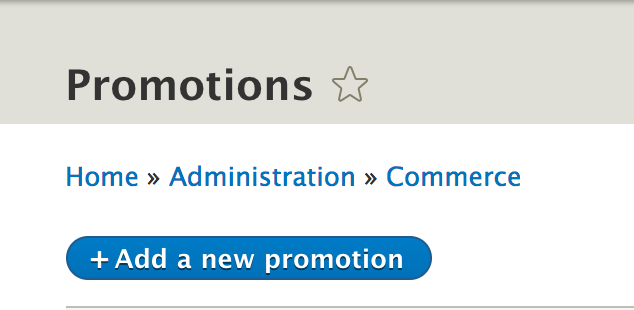
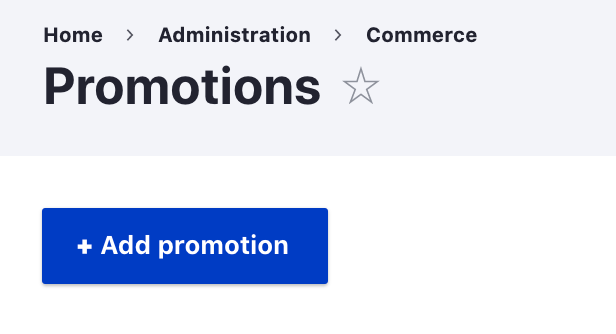
User guide promotions documentation

diff --git a/user/pages/03.commerce2/03.user-guide/06.promotions/02.edit-promotion/docs.md b/user/pages/03.commerce2/03.user-guide/06.promotions/02.edit-promotion/docs.md
@@ -4,4 +4,136 @@ taxonomy:
     category: docs
 ---
 
-! We need help filling out this section! Feel free to follow the *edit this page* link and contribute.
+After creating a promotion, you can make updates by editing its various configuration options. The [Create a promotion](../create-promotion) documentation page provides an introduction to those options; this page provides a more comprehensive summary.
+
+Updating Names and Description
+-----------------
+The "Name", "Display name", and "Description" fields can be updated after a promotion is created, even if the promotion is already active. However, if the promotion has already been applied to existing orders, the name that customers see on their order/cart may or may not be updated, depending on the state of the order.
+
+- If the order has already been placed, the promotion name will not be updated.
+- If the order is still an in-progress shopping cart, the promotion name will be updated.
+
+
+Offer types
+-----------------
+Commerce Core includes five different offer types. The Commerce Shipping module, if installed, provides two additional offer types. When the Offer type is changed, the "Offer" form below the list of options will be updated with configuration options specific to the offer type.
+
+
+#### Fixed amount or Percentage off the order subtotal
+The two simplest offer types are, "Fixed amount off the order subtotal" and "Percentage off the subtotal". For the "Fixed amount" offer, enter the exact amount that should be deducted from the order subtotal. If your site has multiple currencies installed, you will need to specify the currency in addition to the amount.
+
+![Fixed amount off subtotal offer UI](../images/editing_promotion_fixed_amount_currency.png)
+
+For the "Percentage" offer, enter the percentage that should be applied to the order subtotal to calculate the discount amount. Decimal amounts can be entered. For example, enter, "1.5" for a 1.5% discount amount. If the subtotal amount is $1,000.00, the discount will be $15.00.
+
+![Percentage off subtotal offer UI](../images/editing_promotion_percentage.png)
+
+
+#### Fixed amount or Percentage off each matching product
+
+These offer types are similar to the Fixed amount and Percentage off the order subtotal offer types but offer additional options for how the discounts are displayed and applied to individual order items.
+
+![Matching product offer types UI](../images/editing_promtion_matching_product_offers.png)
+
+##### Display options
+- Use the Display options to control whether displayed unit prices for individual order items remain unchanged or adjusted by discount amounts.
+
+##### Application options
+Use the Application options to limit the application of the discount to only order items that match your criteria.
+
+- **Specific products**: Enter the titles for one or more products, separated by commas.
+- **Specific product variation**: Enter either titles or SKUs for one or more product variations, separated by commas.
+- **Product categories**: For any product types with custom fields that reference taxonomy terms, enter one or more term names, separated by commas. The discount will be applied to products that reference those terms. For example, suppose you have a "Product catalog" taxonomy with terms like "Clothing", "Electronics", "Toys", etc. You could use this offer type to create discounts that only apply to products classified as "Toys".
+- **Product types and product variation types**: if only a few options exist, you will see checkbox options for the product/variation types; otherwise, enter the names of the product/variation types, separated by commas.
+
+#### Buy X Get Y
+
+The Buy X Get Y offer type provides discounts for 1 or more items in the customer's cart based on the existence of other items in the cart. The first part of the configuration form is the, "Customer buys" section. Use this section to specify *what must exist in the cart* in order for the discount to apply:
+
+![Bux X Get Y offer type customer buys UI](../images/editing_promotion_buy_x_get_y_buys.png)
+
+The "Quantity" value can be any non-negative integer or decimal amount. The "Matching" criteria are the same as the [Application options](#application-options) described in the previous section.
+
+The next section of the form, labeled, "Customer gets", specifies additional items that:
+1. Must be in the cart for the discount to apply, and
+2. If present, will be discounted.
+
+Again, there is a "Quantity" value and "Matching" criteria for these items.
+
+Finally, the third section of the form, labeled, "At a discounted value", specifies whether the items that are discounted should be discounted based on a Percentage or Fixed amount. See the explanation above for [Fixed amount or Percentage off the order subtotal](#fixed-amount-or-percentage-off-the-order-subtotal) offer types for more information.
+
+![Bux X Get Y offer type customer gets UI](../images/editing_promotion_buy_x_get_y_gets.png)
+
+#### Example: Buy 3 get 1 free for Product X
+Suppose you create a promotion with a "Buy X Get Y" offer type configured as follows:
+- Customer buys quantity: **3**
+- Matching specific products: **Product X**
+- Customer gets quantity: **1**
+- Matching specific products: **Product X**
+- At a discounted value percentage off: **100**
+
+Then the following logic will be applied:
+- If the customer has less than 4 units of Product X in his cart, no discount will be applied.
+- If the customer has 4-7 units of Product X in his cart, 1 of those items will be free (100% discount).
+- If the customer has 8-11 units of Product X in his cart, 2 of those items will be free, and so on.
+
+#### Fixed amount or Percentage off the shipment amount
+The Commerce Shipping module, if insalled, provides these two offer types which work just like the [Fixed amount or Percentage off the order subtotal](#fixed-amount-or-percentage-off-the-order-subtotal) offer types. However, instead of applying the discount to the subtotal, the discount is applied to the Shipping amount. By entering "100" as the percentage amount, a "Free shipping" discount can be created.
+
+Other custom or contributed modules can also define additional offer types or selection criteria.
+
+
+Conditions
+-----------------
+Add conditions to a promotion to create limitations for its discount offer. Conditions are grouped into three categories: Customer, Order and Products. Like Offer Types, selecting a Condition triggers the display of a configuration form specific to that condition. Promotions can have any number of conditions. 
+
+For example, here we've selected two Customer conditions. The Customer role has been set to "Authenticated user", so the customer must be logged in for the discount to apply. And the Billing address has been limited to the country of Sweden, so the discount will only apply to orders with Swedish billing addresses. "Customer email" is another Customer condition, but it has not been enabled for this example promotion.
+
+![Example customer conditions](../images/editing_promotion_customer_conditions.png)
+
+Order conditions allow you to limit the promotion by the total price of the order, currency, or selected payment gateway.
+
+Product conditions allow you to limit the promotion based on the items that have been added to the cart
+or by the quantity of products the customer purchases. You can use the autocomplete to enter a comma separated list of products to apply the promotion to.
+
+
+#### All conditions vs. Only one condition must pass
+If multiple conditions have been added to the order, use this option to control whether all or only one of the conditions must be TRUE for the promotion to apply.
+
+If more complex logic is required for your promotions, custom or contributed modules can be installed to provide specialized conditions or order processors.
+
+
+Start and End dates
+-----------------
+The [Create a promotion](../create-promotion) documentation page provides an example of setting the Start and End date for a promotion. The Start date is required but can be set to the current date and time if you want the promotion to be immediately available.
+
+Date and time constraints are applied based on the timezone of the Store, not the customer's timezone.
+
+
+Usage limitations
+-----------------
+A promotion can also be limited based on total usage or on a per user basis. For example, here we've limited a promotion so that it's available to only the "first 1000 customers", and each customer can only use the discount once. 
+
+![Example customer conditions](../images/editing_promotion_usage_limits.png)
+
+Customer usage is tracked based on email address. If the customer is shopping as a guest and his email address is not yet known, customer usage will not be factored into the logic for determining whether the promotion applies. Once a guest customer enters an email address or logs in, a previously applied discount will be removed if its application would violate the customer usage limit.
+
+
+Compatibility options
+-----------------
+Compatibility options allow you to specify whether the promotion can be combined with other promotions.
+
+![Promotions compatibilty options](../images/managing_promotions_compatibility.png)
+
+- Once a promotion that is *not* compatible with other promotions is added to an order, no other promotions will be added.
+- If a promotion that is compatible with any promotion is added to an order, then any subsequent promotions with limited compatibility will *not* be added to the order.
+
+See the [Promotions table](../managing-promotions#ordering-promotions) documentation for information on how to manage the order in which promotions are added to an order.
+
+Coupons
+-----------------
+If your promotion requires coupons, you can create and manage its coupons by clicking the "Coupons" link at the top of the promotion's Edit page:
+
+![Navigate to promotion's coupons page](../images/editing_promotion_coupons.png)
+
+See [Using coupons](../coupons-with-promotion) for coupon-specific documentation.

diff --git a/user/pages/03.commerce2/03.user-guide/06.promotions/01.create-promotion/docs.md b/user/pages/03.commerce2/03.user-guide/06.promotions/01.create-promotion/docs.md
@@ -4,59 +4,68 @@ taxonomy:
     category: docs
 ---
 
-! We need help filling out this section! Feel free to follow the *edit this page* link and contribute.
 
-
-Imagine that your store is currently running a special New Year campaign where you'd like to give customers a 10% discount on orders worth $50 or more. With the default offers and conditions provided by the promotion system, it is quite simple.
+Imagine that your store is planning to run a special New Year campaign where you'd like to give customers a 10% discount on orders worth $50 or more. You'd like to set up the promotion ahead of time and limit it to a specific date range. With the default offers and conditions provided by the promotion system, it is quite simple.
 
 ## Adding a New Promotion
 
-- You can create a new promotion by going to ``/admin/commerce/promotions`` and clicking the "Add a new promotion" button.
+- You can create a new promotion by going to ``/admin/commerce/promotions`` and clicking the "Add promotion" button.
 
-![](../images/creating_a_promotion.png)
+![Admin ui for creating a promotion](../images/creating_a_promotion.png)
 
-- Give your promotion a descriptive name, for example, "10% off on $50 or more orders"
+- Give your promotion a descriptive name, for example, "10% off on $50 or more orders".
+
+- If you would like to use a different name for what customers will see on their order/cart, enter a "Display name", for example, "10% Off Storewide Sale". If the display name is set, only administrative users will see the "Name" of the promotion.
+
+- Optionally, you can also enter a description for the promotion. This description can only be viewed by administrative users, not customers.
+
+![Admin ui for defining a new promotion](../images/creating_a_promotion_naming.png)
+
   
 Setting the Offer
 -----------------
 
-- Let's now decide on the type of offer you'd like to give users. As our goal is to give customers a 10% discount on orders worth $50 or more, let's select the "Percentage off the order total" radio button under ``Offer``.
-- Now enter the percentage you'd like to give the user, for example, "10%".
+- Let's now decide on the type of offer you'd like to give users. As our goal is to give customers a 10% discount on orders worth $50 or more, let's select the "Percentage off the order subtotal" option under ``Offer type``. Notice that whenever you change the offer type, the form changes below the list of options to provide additional inputs.
+- Now enter the percentage you'd like to give the customer as the "Percentage off". For this example, we enter "10".
 
-![](../images/promotion_offer.png)
+![Admin ui for setting promotion offer](../images/promotion_offer.png)
+
+>See the [Edit a promotion](../edit-promotion) documentation page for a description of all Offer types provided by Drupal Commerce core. Note that additional offer types can be created in custom code by a developer. See the [Create an offer type](../../../developer-guide/promotions/create-an-offer-type) page in the Developer guide for documentation and example code.
 
   
 Adding Conditions
 -----------------
 
-The conditions section allows you to further manage the promotions so that you can tell the system to apply the promotion only if the order meets certain criteria. Currently, by default, Commerce gives us the ability to limit applying a promotion based on the following parameters:
+The conditions section allows you to further manage the promotions so that you can tell the system to apply the promotion only if the order meets certain criteria. There are three categories of Conditions: Customer, Order, and Products. Click on each to see condition options in that category. You can specify multiple conditions. For this example, we want to add a condition so that our promotion will only apply to orders worth $50 or more. This is the "Current order total" condition, an "Order" condtion. Similar to the "Offer type" options, whenever we select a Condition type, a new form will appear under that condition. We'll select the "Greater than or equal to" Operator and enter "50" as the Amount:
 
-- Customer - Limit by the customer's billing address or limit by the customer's role
-- Order - Limit by total price
-- Product - Limit by the quantity of products the customer purchases, or limit by the products that are in the cart
-Note: You can use the autocomplete to enter a comma separated list of products to apply the promotion to.
+![Admin UI for setting promotion conditions](../images/promotion_conditions.png)
 
-Going back to the campaign for your store, let's go ahead and add an "Order" condition by checking the ``Limit by total price`` checkbox and selecting the ``Greater than`` operator and set the "Amount" to ``50.00``.
+At the end of the Conditions section of the page, you can specify whether "all conditions must pass" or "only one condition must pass". Since our example promotion has only one Condition, it doesn't matter which option we select. We'll leave it set to the default, "all conditions must pass":
 
-![](../images/promotion_conditions.png)
+![Admin UI for setting promotion conditions](../images/promotion_all_or_one_condition.png)
 
 
-More Configuration
+>See the [Edit a promotion](../edit-promotion) documentation page for a description of all Condition types provided by Drupal Commerce core. Note that additional condition types can be created in custom code by a developer. See the [Create a condition](../../../developer-guide/promotions/create-a-condition) page in the Developer guide for documentation and example code.
+
+
+
+Additional Configuration
 ------------------
 
-You can set further limitations on the promotion, including:
+On the right-hand side of the page, you'll see options for setting additional limitations on the promotion. For this example, we stated that we wanted to limit our promotion to a specific date range. So we'll enter a Start date of "12/31/2021" at "10:00 PM" and an End date of "1/7/2020" at "11:59 PM", right before midnight. To do so, we need to enable the "Provide an end date" option by clicking the checkbox.
 
-- Dates
-  - Set a start and end date for the promotion
-- Usage Limits
-  - Limit the number of times the promotion can be used
-- Compatibility
-  - Denote if the promotion can be combined with other promotions
+![Admin UI for setting promotion conditions](../images/promotion_start_end_date.png)
 
-![](../images/promotion_more_configuration.png)
+Note that the date and time constraints are applied based on the Timezone of the *Store*, not that of the customer.
 
 
+Testing the Promotion
+-----------------
 Now, that you've entered the necessary conditions let's "Save" the promotion. You can test this out by adding a product or a number of products to the cart. Once the order total reaches $50 or more, note, a discount is automatically applied to the order total.
 
 ![](../images/promotion_discount_applied.png)
+
+**Testing Tip**: if you want to test a promotion before it goes live, use the "Customer role" Condition to temporarily require an administrative role. Then you can safely enable and test a promotion without exposing it to customers. In this example, you would also need to adjust the starting date to allow orders during the testing period. Just remember to restore the correct starting date and remove the Customer role condition after testing and before it needs to go live!
+
+
 

diff --git a/user/pages/03.commerce2/03.user-guide/06.promotions/04.coupons-with-promotion/docs.md b/user/pages/03.commerce2/03.user-guide/06.promotions/04.coupons-with-promotion/docs.md
@@ -4,22 +4,66 @@ taxonomy:
     category: docs
 ---
 
-! We need help filling out this section! Feel free to follow the *edit this page* link and contribute.
+Let's now imagine that you're running a new email campaign that sends customers a coupon that they can use to get 10% off each order over $50. 
 
+Setting up a coupon-based promotion is the same as creating a new promotion but with a extra step. You set up the promotion the [same way as before](../01.create-promotion), but this time let's add a Coupon to the promotion.
 
-Let's now imagine that you're running a new email campaign that sends customers a coupon that they can use to get 15% off each order over $100. 
-
-Setting up a coupon based promotion is the same as creating a new promotion but with a extra step. You setup the promotion the [same way as before](../01.create-promotion), but this time lets add a Coupon to the promotion.
-
-Click on the Coupon tab at the top of the page. Click on 'Add Coupon' and add the following:
-- Enter a specific coupon code
-- Mark it as active
-- Set the number of times this coupon can be used
+Click on the Coupon tab at the top of the page. Click on "Add Coupon", and add the following:
+- Enter a specific coupon code.
+- Mark it as enabled (active).
+- Set the number of times this coupon can be used as the "Total available" amount.
+- To limit the number of times this coupon can be used by a single customer, set the "Total per customer" amount.
   
-![](../images/creating_a_coupon.png)
+![Coupon creation UI](../images/creating_a_coupon.png)
 
 Finally, "Save" the coupon. 
 
-Let's test this out by adding a few products that amount to an order total of over $100. Notice that a discount is not automatically applied as you have added a coupon to the promotion. Instead, in the "Checkout" page, you can see a 'Coupon code' textfield. Enter the coupon code in the promotion and hit "Apply coupon". You can now see that the 15% discount has been applied to the entire order.
+Let's test this out by adding a products to a cart so that the order totals over $50. Notice that the discount is not automatically applied. It will only be applied if the coupon code is entered. During Checkout, you can see a "Coupon code" textfield in the "Order summary". Enter the coupon code for the promotion, and click the "Apply coupon" button.
 
-In order to allow multiple coupons, go to the Checkout Flow page and edit the Checkout Flow that will be used. Edit the 'Coupon redemption' pane and click on the 'Allow multiple coupons to be redeemed'. Make sure to save.
+![Coupon application UI](../images/applying_a_coupon.png)
+
+You can now see that the 10% discount has been applied to the entire order.
+
+![Applied coupon](../images/applied_coupon.png)
+
+
+### Bulk coupon generation 
+
+Now let's suppose that you want to create a large number of unique coupons for a promotion. You can use the Bulk coupon generator by clicking "Generate coupons" instead of "Add coupon" on a promotion's Coupons page:
+
+![Generating coupons](../images/generating_coupons.png)
+
+For each batch of coupons you'd like to generate, you need to specify three things:
+
+1. The number of coupons to be generated.
+2. The coupon code pattern.
+3. Usage limitations, if any. By default, generated coupons are limited to a single use by a single customer. (See the description of [Usage limitations](../edit-promotion#usage-limitations) for promotions for more information.)
+
+#### Coupon code pattern
+
+Coupon code patterns are based on four attributes: format, prefix, suffix, and length.
+
+**Format** options are alphanumeric, alphabetic, and numeric and define the type of characters that will form the unique portion of the coupon code. For alphanumeric patterns, the characters 'I', 'O', 'i', 'l', '0', '1' are not used, to avoid recognition issues. Similarly, for alphabetic patterns, the characters 'I', 'i', 'l' are not used. All digits 0-9 are used for numeric patterns.
+
+**Length** is a positive integer that defines the number of characters that form the unique portion of the coupon code. Here are some examples of format/length values and the types of unique codes they produce:
+
+| Format | Length | Example code |
+| ------ | ------ | ------------ |
+| Alphanumeric | 8 | Xj7kcWn2 |
+| Alphabetic | 5 | HPAsu |
+| Numeric | 10 | 8974406511 |
+
+**Prefix** and **Suffix** are optional strings that can be added before and after the unique portion of the coupon code.
+
+In this example, we will generate coupon codes that look like "SAVE-10-HPAsu-2020", with "SAVE-10" as the prefix, "-2020" as the suffix, and a unique 5 character alphabetic code.
+
+![Coupon code pattern](../images/coupon_code_pattern.png)
+
+Let's generate 100 coupons for this pattern. Coupons are generated in batches, with progress displayed:
+
+![Generating coupons progress](../images/generating_coupons_progress.png)
+
+We now have 100 unique coupons for our promotion:
+
+![Generated coupons](../images/coupons_generated.png)
+

diff --git a/user/pages/03.commerce2/03.user-guide/06.promotions/05.managing-promotions/docs.md b/user/pages/03.commerce2/03.user-guide/06.promotions/05.managing-promotions/docs.md
@@ -4,7 +4,36 @@ taxonomy:
     category: docs
 ---
 
-! We need help filling out this section! Feel free to follow the *edit this page* link and contribute.
+To manage promotions, select "Promotions" from the "Commerce" administrative menu.
 
+The Promotions table lists all promotions, including both enabled and disabled promotions. In the first column, the name of the promotion is displayed along with a "Disabled" label for any disabled promotions. The "Usage" column displays both the current total usage and the usage limit (or "Unlimited" when there is no usage limit). The "Per-customer limit" displays the per-customer usage limit or "Unlimited". All promotions have a start date and time that is displayed in the "Start date" column. If a promotion has an end date and time, that value is displayed in the "End date" column. 
 
-Explain promotion table, managing promotions to find ones which hit usage limit, have not started, or ended.
+Standard operations links for editing/deleting/etc. promotions are provided in the last column, labeled, "Operations".
+
+If your site has more than 50 promotions, they will be grouped into pages with up to 50 promotions per page.
+
+![Promotions table](../images/managing_promotions_table.png)
+
+#### Ordering promotions
+If any of your promotions have limited compatibility, then the order in which promotions are listed in the Promotions table can affect whether any particular promotion is applied to an order. [Compatibility options](../edit-promotion#compatibility-options) can be set when editing a promotion:
+
+![Promotions compatibilty options](../images/managing_promotions_compatibility.png)
+
+Whenever a cart or draft order is updated, all "available" promotions are checked, in order, for applicability to the order. A promotion is considered **available** if all of the following are true:
+
+- The promotion is enabled.
+- The promotion does not have coupons. (Coupons are handled separately.)
+- The promotion applies to the order's *type*.
+- The promotion applies to the order's *store*.
+- The current date/time is between the order's start and end dates.
+- If the promotion has any general or customer-specific usage limits, they have not yet been met.
+
+The available promotions are sorted first by *weight*, from lowest to highest, and then by name, in the case of equally weighted promotions.
+
+To view the **weight** of promotions, click the "Show row weights" link at the top of the Promotions table, on the right:
+
+![Show promotion weights](../images/managing_promotions_show_weights.png)
+
+When weights are displayed, a new "Weight" column appears with editable weight values. When weights are hidden, the grab-and-drop tool in the leftmost column can be used to reorder promotions and adjust their weights. Once the weights have been updated, click the "Save" button at the bottom of the page to save the new weight values.
+
+![Manage promotion weights](../images/managing_promotions_update_weights.png)

diff --git a/user/pages/03.commerce2/03.user-guide/06.promotions/docs.md b/user/pages/03.commerce2/03.user-guide/06.promotions/docs.md
@@ -4,14 +4,12 @@ taxonomy:
     category: docs
 ---
 
-! We need help filling out this section! Feel free to follow the *edit this page* link and contribute.
+The competitive nature of the current retail market has driven store owners to search for methods and strategies to stand out from the competition and to drive sales. Creating promotions has been the strategy that has proven most effective for achieving those two goals.
 
-Drupal Commerce Core offers us powerful pricing options that store administrators can leverage to the extent of their store needs. Store admins can create very clever and complex pricing scenarios to entice customers and increase sales.
+Drupal Commerce Core provides powerful pricing options that store administrators can leverage to turn their innovative promotion ideas into reality. Promotions and coupons give us the ability to configure pricing rules to meet the store's needs. Before we delve into the process of creating promotions and coupons, let's first get some basic understanding of these terms.
 
-Promotions and coupons give us the ability to setup and configure pricing rules to meet the store's needs. It can be created quite easily and can be applied to an entire order total or per product. Before we delve into the process of creating promotions and coupons, let's first get some basic understanding of these terms.
-
-* **Promotion** - a pricing strategy to increase/boost customer sales. It can include product-based discounts or discounts on the entire order. An unlimited number of promotions can be added and will be applied based on the weight that you give each promotion. Promotions with a lower weight will be applied first.
+* **Promotion** - a pricing strategy to increase/boost customer sales. It can include product-based discounts or discounts on the entire order. An unlimited number of promotions can be added. They are applied based on the weight that you give each promotion. Promotions with a lower weight are applied first.
 * **Offer** - the actual discount that customers will receive. For example, a "10%" discount.
 * **Condition** - the requirements that need to be met for the promotion to apply. For example, the offer will only apply if the order total is greater than "$100".
-* **Compatibility** - if the promotion can be combined with other promotions.
-* **Coupon** - a promotion that will only apply if the customer adds a matching voucher code during checkout.
+* **Compatibility** - whether the promotion can be combined with other promotions.
+* **Coupon** - a promotion that applies only if the customer adds a matching voucher code during checkout.

diff --git a/user/pages/03.commerce2/03.user-guide/06.promotions/03.delete-promotion/docs.md b/user/pages/03.commerce2/03.user-guide/06.promotions/03.delete-promotion/docs.md
@@ -4,4 +4,13 @@ taxonomy:
     category: docs
 ---
 
-! We need help filling out this section! Feel free to follow the *edit this page* link and contribute.
+Promotions can be deleted from the [Promotions table](../managing-promotions) or using the Promotion edit form.
+
+![Deleting a promotion](../images/deleting_a_promotion.png)
+
+
+Whenever you elect to delete a promotion through the administrative UI, you will need to confirm the deletion. Deleting a promotion is an irreversible operation.
+
+![Deleting a promotion](../images/deleting_a_promotion_confirmation.png)
+
+Whenever a promotion is deleted, all of its coupons and associated customer usage records will also be deleted. However, deleting promotions does *not* affect discounts that have already been applied to placed orders. Also, orders continue to store references to promotions, even after they are deleted.
